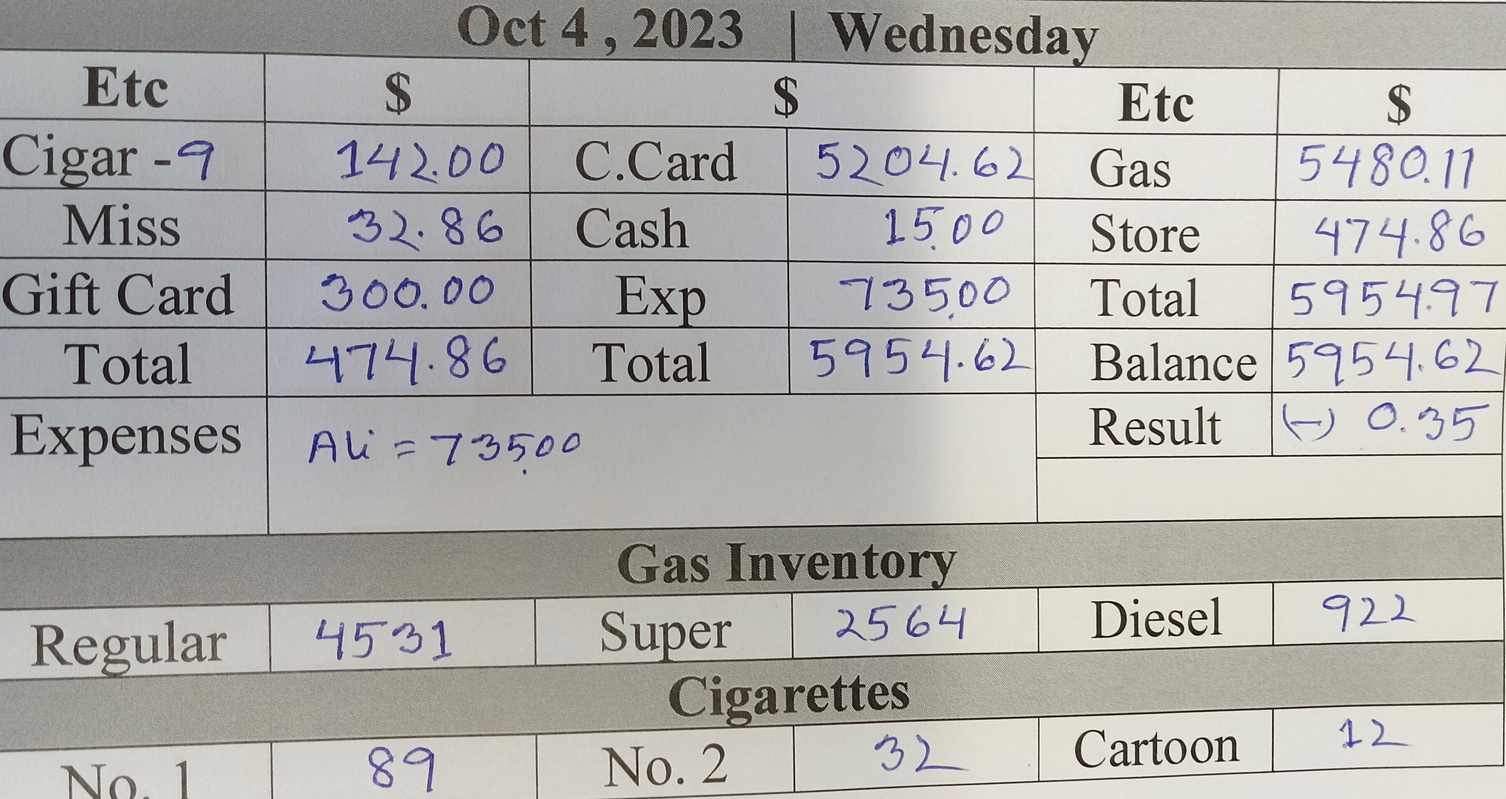
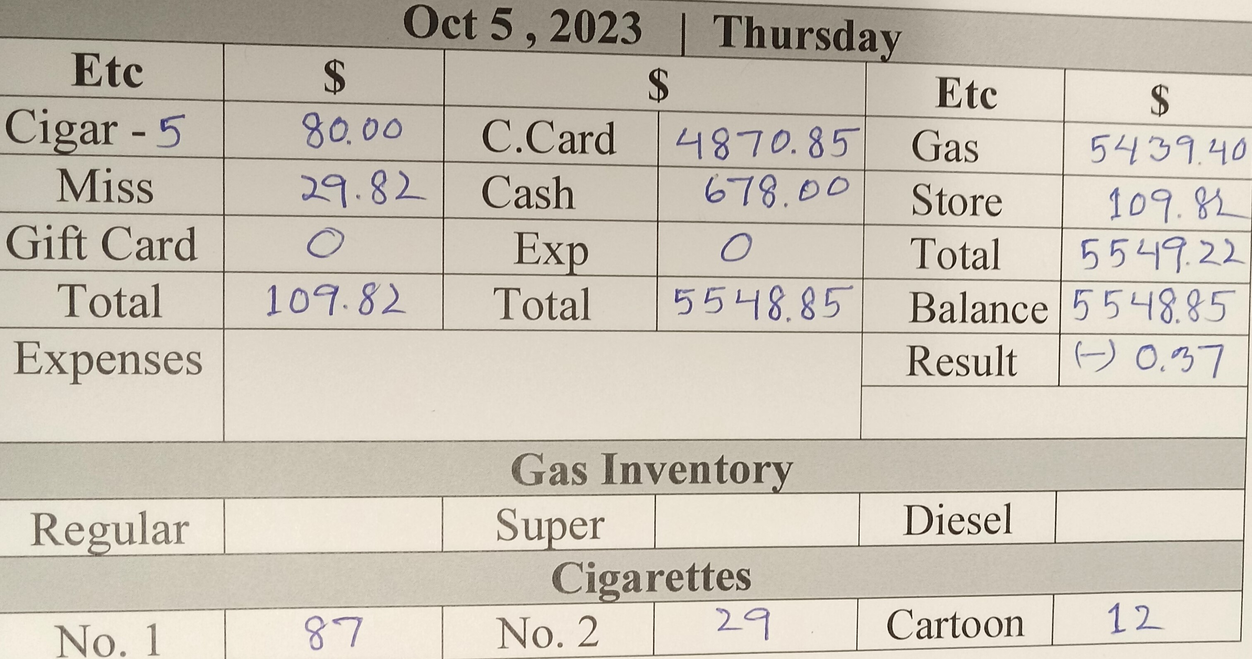
5 done

diff --git a/card.html b/card.html
@@ -67,7 +67,7 @@
         </h5>
           <p class="card-text"></p>
           <p class="card-text"><small class="text-muted"></small></p>
-        <img src="4.jpg" class="card-img-top text-danger text-center fw-bolder fs-3" 
+        <img src="5.jpg" class="card-img-top text-danger text-center fw-bolder fs-3" 
           alt="Call Rashid ">
         <div class="card-body">
           <h5 class="card-title"></h5>
@@ -79,13 +79,13 @@
         <h5 class="card-title text-center pt-4 m-0">
           <button class="p-1 rounded-3" type="button"><a title="Click Me"
              class="text-primary fw-bolder text-decoration-none " href="index.html">
-             Oct 3,2023
+             Oct 4,2023
           </a>
           </button>
         </h5>
           <p class="card-text"></p>
           <p class="card-text"><small class="text-muted"></small></p>
-        <img src="3.jpg" class="card-img-top text-center text-bg-danger" 
+        <img src="4.jpg" class="card-img-top text-center text-bg-danger" 
         alt="Not Done">
         <div class="card-body">
           <h5 class="card-title"></h5>
@@ -97,13 +97,13 @@
         <h5 class="card-title text-center pt-4 m-0 ">
           <button class="p-1 rounded-3" type="button"><a title="Click Me" 
             class="text-primary fw-bolder text-decoration-none " href="index.html">
-            Oct 2,2023          
+            Oct 3,2023          
           </a>
           </button>
           </h5>
           <p class="card-text"></p>
           <p class="card-text"><small class="text-muted"></small></p>
-        <img src="2.jpg" class="card-img-top text-center text-bg-danger" 
+        <img src="3.jpg" class="card-img-top text-center text-bg-danger" 
         alt="Not Done">
         <div class="card-body">
           <h5 class="card-title"></h5>
@@ -116,13 +116,13 @@
         <h5 class="card-title text-center pt-4 m-0 ">
           <button class="p-1 rounded-3" type="button"><a title="Click Me" 
             class="text-primary fw-bolder text-decoration-none " href="index.html">
-             Oct 1,2023
+             Oct 2,2023
             </a>
           </button>
           </h5>
           <p class="card-text"></p>
           <p class="card-text"><small class="text-muted"></small></p>
-        <img title="Pic" src="1.jpg" class="card-img-top  text-bg-danger fw-bolder text-center"
+        <img title="Pic" src="2.jpg" class="card-img-top  text-bg-danger fw-bolder text-center"
          alt="Already Done">
         <div class="card-body">
           <h5 class="card-title"></h5>
@@ -130,7 +130,7 @@
           <p class="card-text"><small class="text-muted"></small></p>
         </div>
       </div>
-       
+  
     </div>
   </div>
   <div class="card">

diff --git a/index.html b/index.html
@@ -109,11 +109,11 @@
       <div class="d-flex justify-content-around border border-dark fw-bolder">
         <!--this week start-->
         <div class="p-0 text-info">T.M</div>
-          <div class="p-0 text-danger">1158</div>
+          <div class="p-0 text-danger">2402</div>
           <div class="p-0 text-info">Etc</div>
           <div class="p-0 text-danger">537</div>
           <div class="p-0 text-info">Rest</div>
-          <div class="p-0 text-danger">621</div>
+          <div class="p-0 text-danger">1865</div>
           <!--78,35,16cc-->
           <!--this week end-->
 
